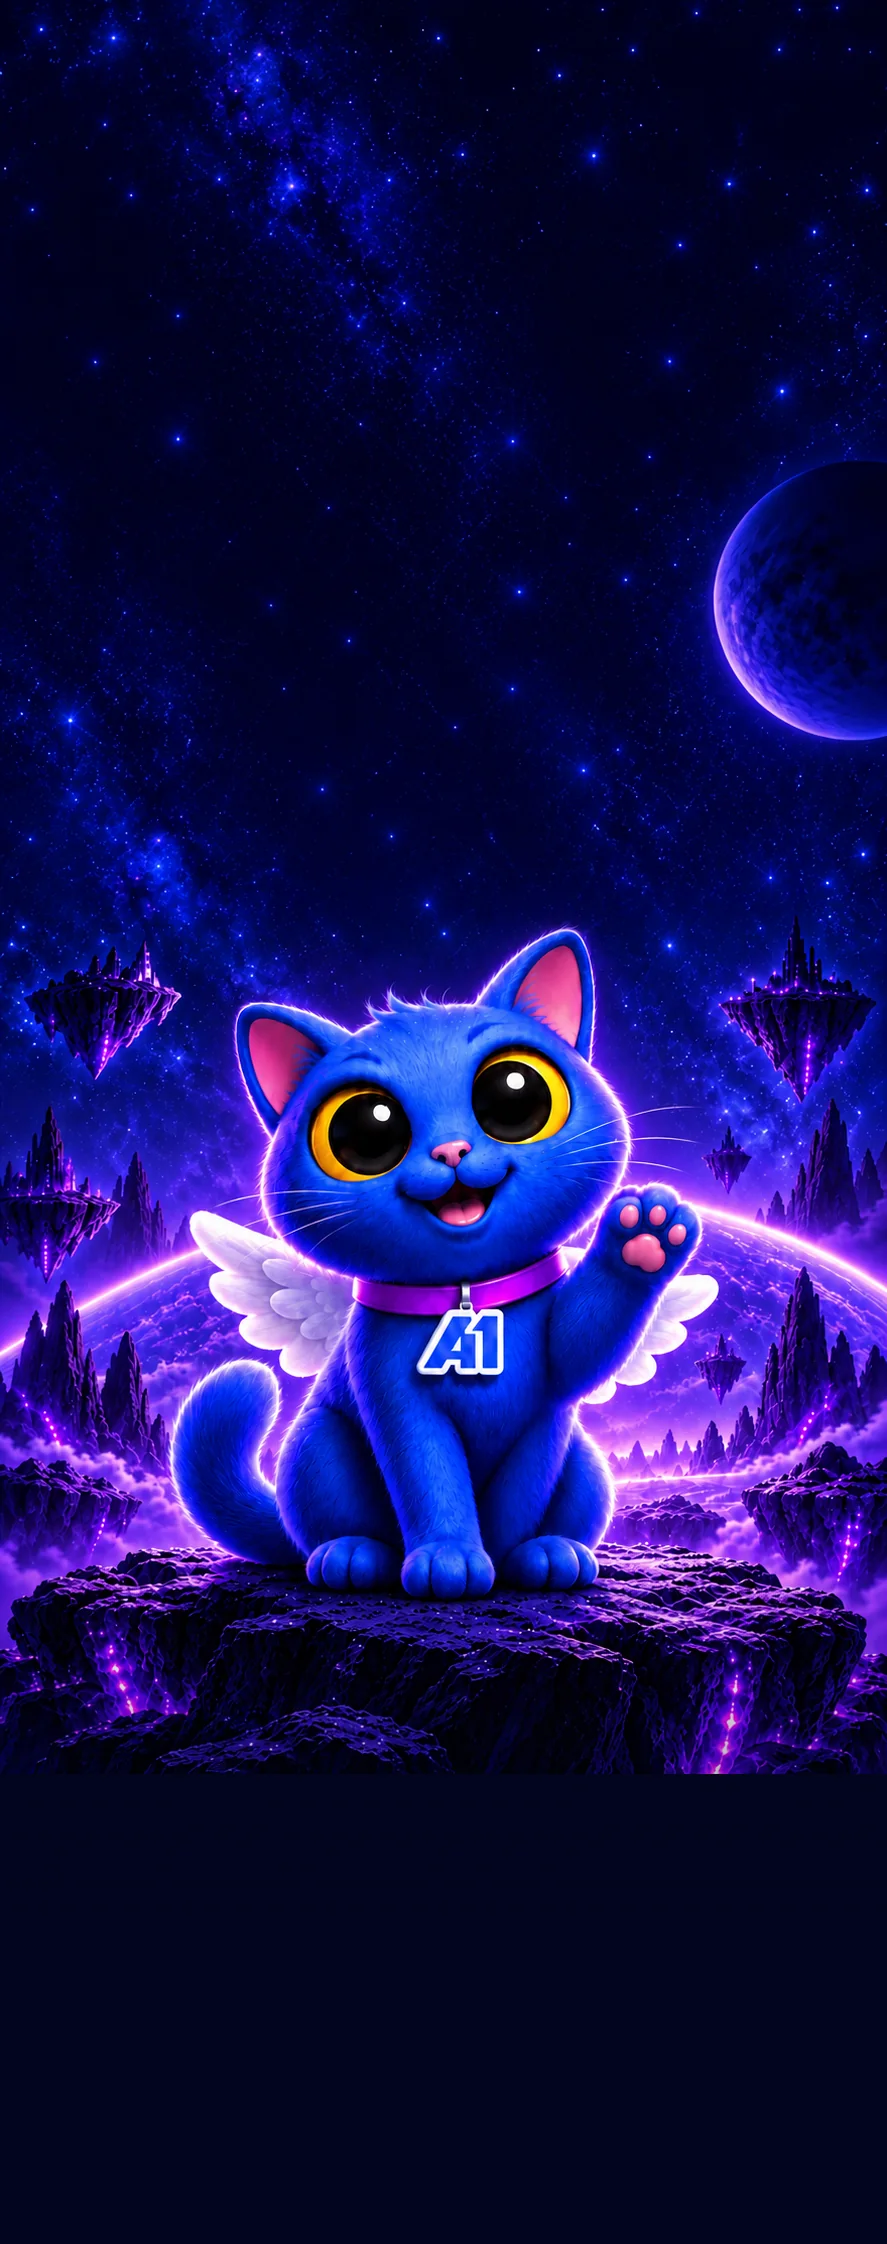
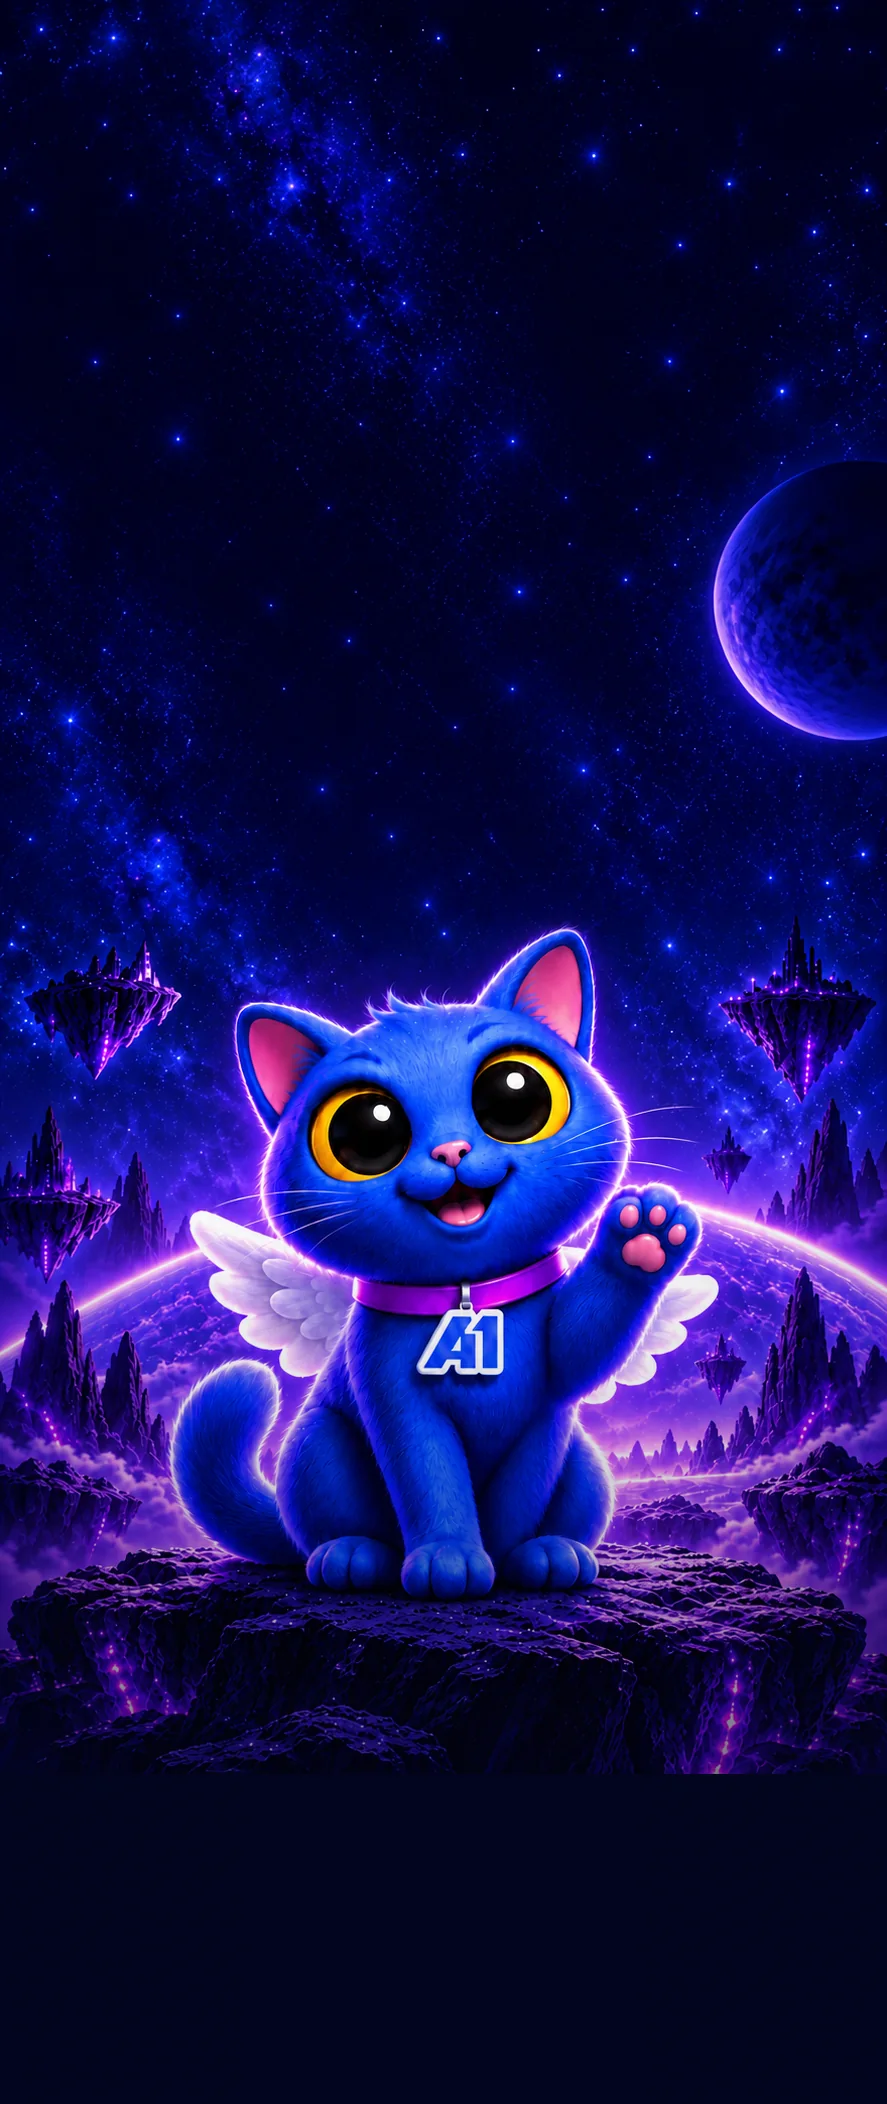
fix(download): на телефоне убран стык фона, кот ниже, заголовок крупнее
Aleksandr: «снизу видна чёткая линия, что фон разделяется... кота ещё
ниже... заголовок сидит прям возле логотипа, надо крупнее и ниже».

- вертикальный кадр пересобран: затухание в фон начинается на 620 px
  выше края иллюстрации (было 230) и идёт плавнее, плюс лёгкое боковое
  виньетирование внизу — горизонтального стыка «скала / фон» больше не
  видно ни на одном экране
- «подставка» под котом уменьшена с 470 до 330 px, поэтому сам кот
  опустился примерно на 50 px ближе к кнопкам
- заголовок на телефоне крупнее (clamp 38-52 px вместо 34-46) и вся
  текстовая колонка опущена от шапки (padding-top 40 px вместо 18)

Проверено скриншотами 412x915, 390x844, 375x667, 430x932.

Claude-Session: https://claude.ai/code/session_01AdP79WQ7osxvWv89q7pLZZ

diff --git a/app/download/download.module.css b/app/download/download.module.css
@@ -737,9 +737,11 @@
   }
 
   /* весь экран: текст сверху, кот в середине, кнопки внизу */
+  /* Aleksandr, 14.09.2026: заголовок «сидит прям возле логотипа» —
+     опускаем всю текстовую колонку ниже от шапки */
   .hero {
     align-items: stretch;
-    padding-top: 18px;
+    padding-top: 40px;
     padding-bottom: calc(22px + env(safe-area-inset-bottom));
   }
 
@@ -751,14 +753,15 @@
     margin: 0 auto;
   }
 
+  /* на телефоне заголовок крупнее — он здесь главный элемент экрана */
   .headline {
-    font-size: clamp(34px, 8vw, 46px);
-    line-height: 1.1;
+    font-size: clamp(38px, 9.6vw, 52px);
+    line-height: 1.08;
   }
 
   .subtitle {
-    margin-top: 14px;
-    font-size: 19px;
+    margin-top: 16px;
+    font-size: 18.5px;
     max-width: 34ch;
   }
 
@@ -813,11 +816,11 @@
 /* Телефон: заголовок чуть мельче, поля уже. */
 @media (max-width: 559px) {
   .headline {
-    font-size: clamp(32px, 8.5vw, 42px);
+    font-size: clamp(36px, 9.6vw, 46px);
   }
 
   .subtitle {
-    font-size: 18px;
+    font-size: 17.5px;
   }
 }
 
